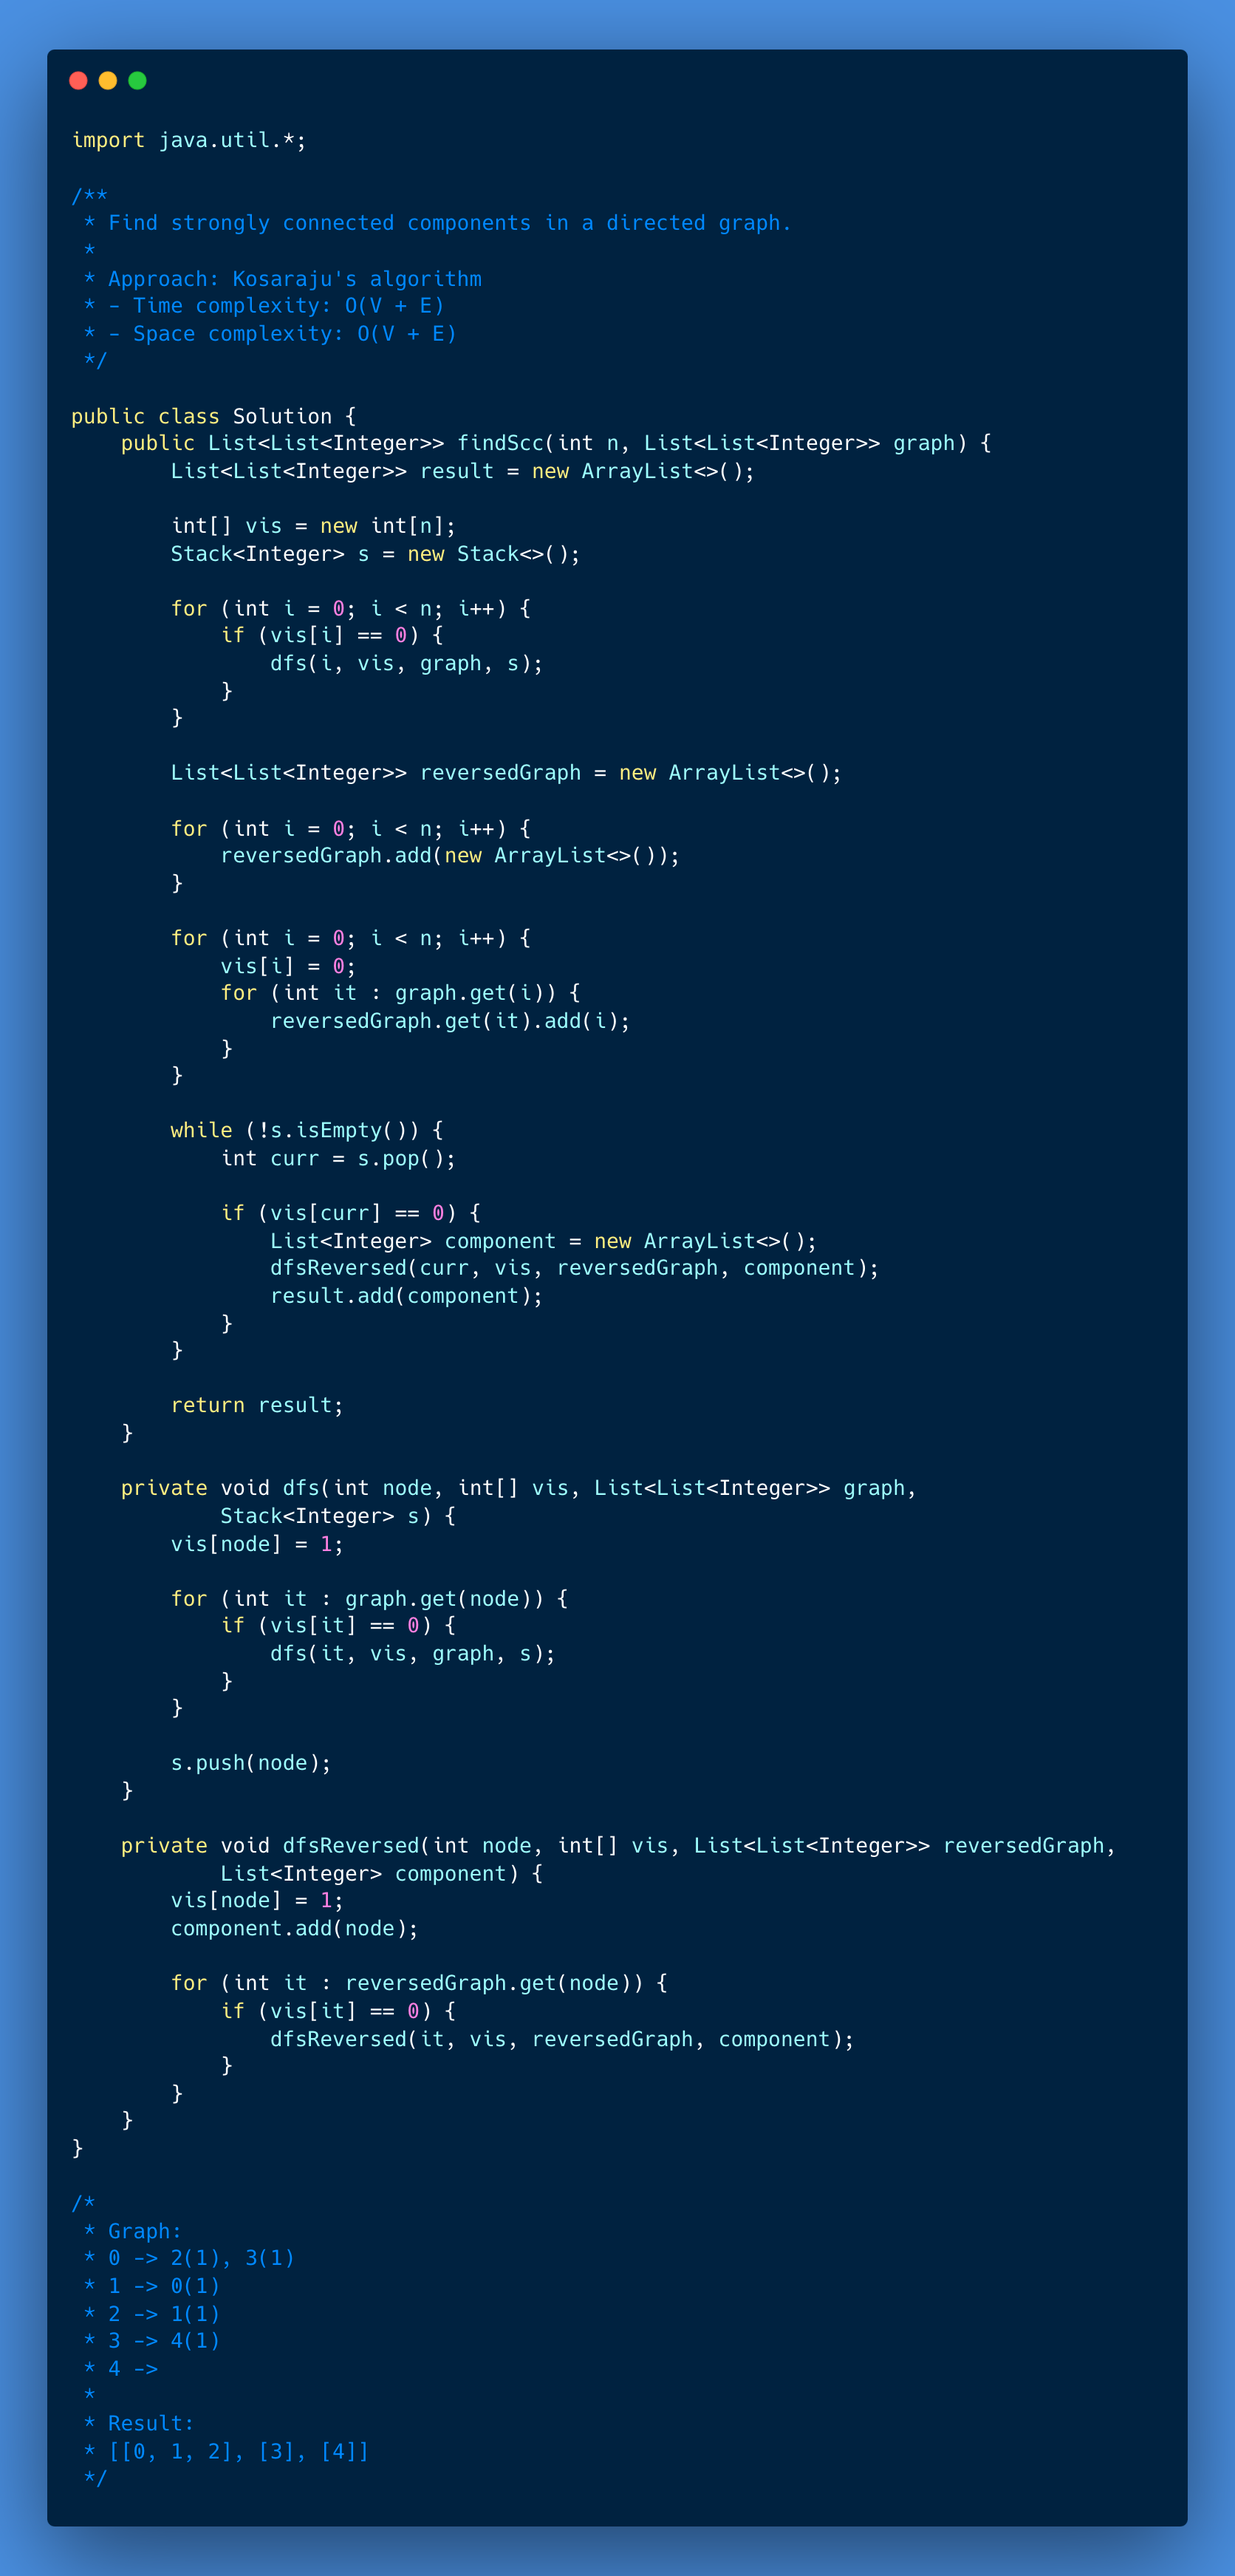
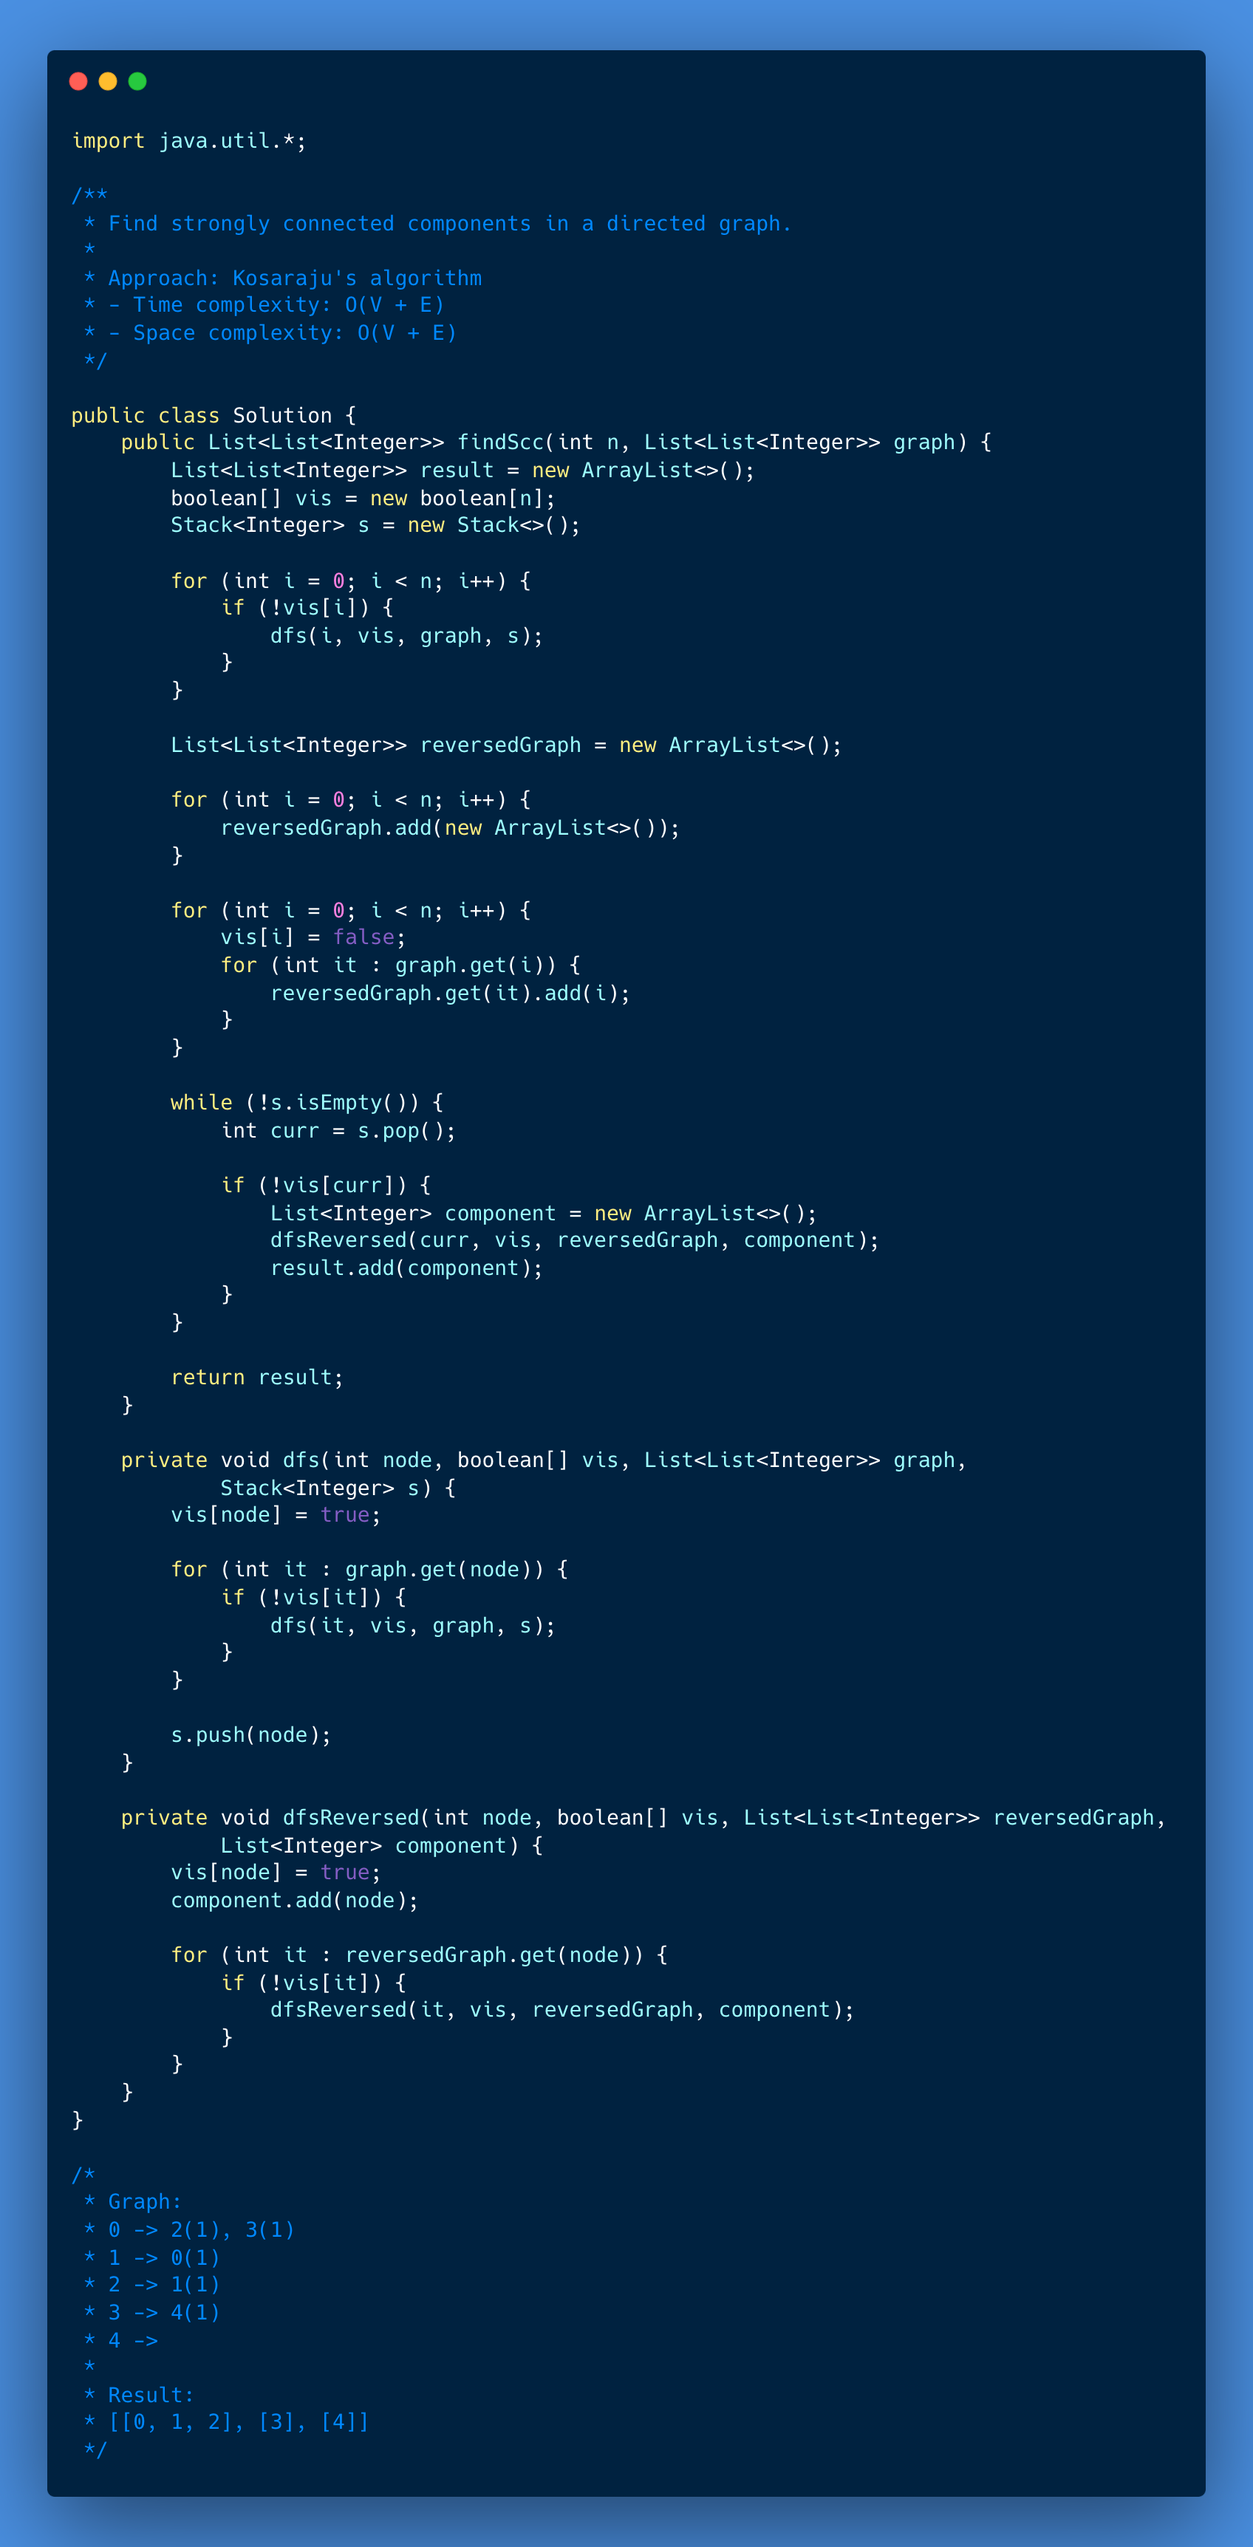
Solved strongly connected components problem

diff --git a/263-strongly-connected-components/001-solution/Solution.java b/263-strongly-connected-components/001-solution/Solution.java
@@ -11,12 +11,11 @@ import java.util.*;
 public class Solution {
     public List<List<Integer>> findScc(int n, List<List<Integer>> graph) {
         List<List<Integer>> result = new ArrayList<>();
-
-        int[] vis = new int[n];
+        boolean[] vis = new boolean[n];
         Stack<Integer> s = new Stack<>();
 
         for (int i = 0; i < n; i++) {
-            if (vis[i] == 0) {
+            if (!vis[i]) {
                 dfs(i, vis, graph, s);
             }
         }
@@ -28,7 +27,7 @@ public class Solution {
         }
 
         for (int i = 0; i < n; i++) {
-            vis[i] = 0;
+            vis[i] = false;
             for (int it : graph.get(i)) {
                 reversedGraph.get(it).add(i);
             }
@@ -37,7 +36,7 @@ public class Solution {
         while (!s.isEmpty()) {
             int curr = s.pop();
 
-            if (vis[curr] == 0) {
+            if (!vis[curr]) {
                 List<Integer> component = new ArrayList<>();
                 dfsReversed(curr, vis, reversedGraph, component);
                 result.add(component);
@@ -47,12 +46,12 @@ public class Solution {
         return result;
     }
 
-    private void dfs(int node, int[] vis, List<List<Integer>> graph,
+    private void dfs(int node, boolean[] vis, List<List<Integer>> graph,
             Stack<Integer> s) {
-        vis[node] = 1;
+        vis[node] = true;
 
         for (int it : graph.get(node)) {
-            if (vis[it] == 0) {
+            if (!vis[it]) {
                 dfs(it, vis, graph, s);
             }
         }
@@ -60,13 +59,13 @@ public class Solution {
         s.push(node);
     }
 
-    private void dfsReversed(int node, int[] vis, List<List<Integer>> reversedGraph,
+    private void dfsReversed(int node, boolean[] vis, List<List<Integer>> reversedGraph,
             List<Integer> component) {
-        vis[node] = 1;
+        vis[node] = true;
         component.add(node);
 
         for (int it : reversedGraph.get(node)) {
-            if (vis[it] == 0) {
+            if (!vis[it]) {
                 dfsReversed(it, vis, reversedGraph, component);
             }
         }
